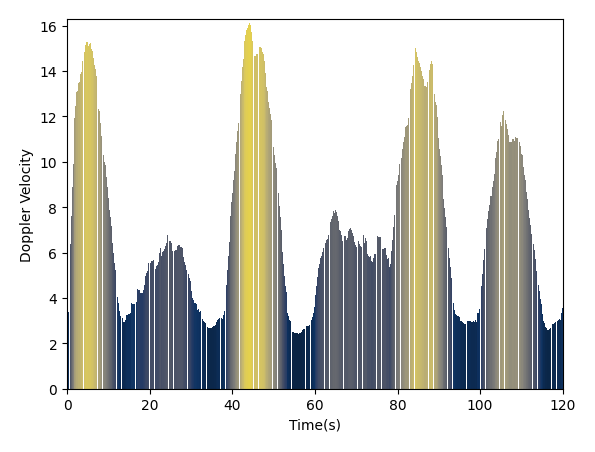
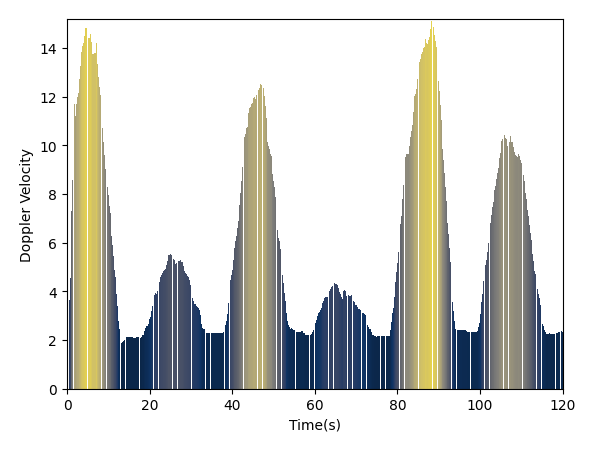
Updated0923

diff --git a/main.py b/main.py
@@ -1,94 +1,34 @@
-#Import pandas, numpy and matplotlib library
 import pandas as pd
 import numpy as np
 import matplotlib.pyplot as plt
+import seaborn as sns
 
-#Save database URL to url
-#url = "https://raw.githubusercontent.com/kotobuki09/TrackLocation/master/icontrol_data.csv"
-#url = "https://raw.githubusercontent.com/kotobuki09/kngo/main/Dopper_2302.csv"
-url = "https://raw.githubusercontent.com/kotobuki09/Fab_OpenVLC/main/Dopper_1806.csv?token=GHSAT0AAAAAACCS5Q76SJ4K5Z2ZSAH2ITCAZEO3KDQ"
+url = "https://raw.githubusercontent.com/kotobuki09/Fab_OpenVLC/main/Dopper_2302.csv?token=GHSAT0AAAAAACFWXAL5QHUFUL2J7TG24HIYZHOCO3A"
 
-
-
-# Creating a DataFrame with dataset and change all the "NM" value to missing value
 missing_values = ["NM"]
 df = pd.read_csv(url, na_values = missing_values)
-#Drop first column
-#df.drop(columns=df.columns[[0,1]], axis=1,inplace=True) #delete 2 column 0, and 1
 df.drop(columns=df.columns[0], axis=1,inplace=True)
-# Replace all the missing value using median
 df = df.apply(lambda x: x.fillna(x.mean()))
 
-
-print(df.head)
-#print(df.columns[:3])
-#print(df.Location.unique()+1)
-
-#Draw the new graph for the Doppler Velocity performance
-#y= df.iloc[:,:1].values
-#y= np.squeeze(y)
-#y=list(y)
-y=df["Doppler"]
-
-#print(x)
-#x = []
-#for i in range(0, 604):
-#    x.append(i * 0.2)
-x=np.linspace(0, 120, 601)
-values = [i/5 for i in range(0, 601)]
-
-# Create a range of time values from 0s to 120s with 0.2s increments
-#x = pd.date_range(start='00:00:00', end='00:02:00', freq='200ms')
-
-# Create a DataFrame with the time values
-#dftime = pd.DataFrame({'Time': x})
-
-# Print the first few rows of the DataFrame
-#print(df.head())
-
-
-
-
-#print(y)
-#plt.plot(x, y)
-#plt.title('Doppler velocity extracted from testbed scenario')
-#plt.xlabel('Time(s)')
-#plt.ylabel('Doppler velocity')
-#plt.show()
-
-#df2 = pd.DataFrame (x, columns = ['Time'])
-#print(df2.head)
+y = df["Doppler"]
+x = np.linspace(0, 120, 601)
 
 df['Time'] = x
-print(df.head)
-print(type(df))
 
-import seaborn as sns
-import pandas as pd
+# Use a continuous color palette for better visualization
+cmap = plt.get_cmap('coolwarm')
+norm = plt.Normalize(df['Doppler'].min(), df['Doppler'].max())
+colors = cmap(norm(df['Doppler'].values))
 
-import numpy as np
-import matplotlib
-
-
-#use red for bars with value less than 10 and green for all other bars
-
-#cols = ['red' if y < 2 else 'green' for y in df.Doppler]
-cols = ['green' if y < 3 else 'blue' if 3 <= y < 7 else 'red' for y in df.Doppler]
-x=df["Time"]
-y=df["Doppler"]
-fig=sns.barplot(x=x, y=y,palette=cols)
+fig, ax = plt.subplots()
+sns.barplot(x=df["Time"], y=df["Doppler"], palette=colors, ax=ax)
 xticks = [i for i in range(0, 121, 20)]
 plt.xticks([i*5 for i in xticks], xticks)
-#ticks = plt.xticks(x[::400], df['Time'].values[::400], rotation=90)
-#plt.xticks(range(len(df["Time"])), df["Time"])
 
-
-# Set the axis labels and title
 plt.xlabel('Time(s)')
 plt.ylabel('Doppler Velocity')
 plt.margins(x=0)
 plt.margins(y=0)
-# Show the plot
-plt.show()
 
-fig.figure.savefig("Doppler062023.png",transparent = True, bbox_inches = 'tight', pad_inches = 0.2)
+plt.show()
+fig.savefig("Doppler_velocity_colors.png", transparent=True, bbox_inches='tight', pad_inches=0.2)

diff --git a/main - OriginalCode-2908.py b/main - OriginalCode-2908.py
@@ -1,0 +1,94 @@
+#Import pandas, numpy and matplotlib library
+import pandas as pd
+import numpy as np
+import matplotlib.pyplot as plt
+
+#Save database URL to url
+#url = "https://raw.githubusercontent.com/kotobuki09/TrackLocation/master/icontrol_data.csv"
+#url = "https://raw.githubusercontent.com/kotobuki09/kngo/main/Dopper_2302.csv"
+url = "https://raw.githubusercontent.com/kotobuki09/Fab_OpenVLC/main/Dopper_2302.csv?token=GHSAT0AAAAAACFWXAL4PKZAONDAPKDMY2Y6ZHNZH4Q"
+
+
+
+# Creating a DataFrame with dataset and change all the "NM" value to missing value
+missing_values = ["NM"]
+df = pd.read_csv(url, na_values = missing_values)
+#Drop first column
+#df.drop(columns=df.columns[[0,1]], axis=1,inplace=True) #delete 2 column 0, and 1
+df.drop(columns=df.columns[0], axis=1,inplace=True)
+# Replace all the missing value using median
+df = df.apply(lambda x: x.fillna(x.mean()))
+
+
+print(df.head)
+#print(df.columns[:3])
+#print(df.Location.unique()+1)
+
+#Draw the new graph for the Doppler Velocity performance
+#y= df.iloc[:,:1].values
+#y= np.squeeze(y)
+#y=list(y)
+y=df["Doppler"]
+
+#print(x)
+#x = []
+#for i in range(0, 604):
+#    x.append(i * 0.2)
+x=np.linspace(0, 120, 601)
+values = [i/5 for i in range(0, 601)]
+
+# Create a range of time values from 0s to 120s with 0.2s increments
+#x = pd.date_range(start='00:00:00', end='00:02:00', freq='200ms')
+
+# Create a DataFrame with the time values
+#dftime = pd.DataFrame({'Time': x})
+
+# Print the first few rows of the DataFrame
+#print(df.head())
+
+
+
+
+#print(y)
+#plt.plot(x, y)
+#plt.title('Doppler velocity extracted from testbed scenario')
+#plt.xlabel('Time(s)')
+#plt.ylabel('Doppler velocity')
+#plt.show()
+
+#df2 = pd.DataFrame (x, columns = ['Time'])
+#print(df2.head)
+
+df['Time'] = x
+print(df.head)
+print(type(df))
+
+import seaborn as sns
+import pandas as pd
+
+import numpy as np
+import matplotlib
+
+
+#use red for bars with value less than 10 and green for all other bars
+
+#cols = ['red' if y < 2 else 'green' for y in df.Doppler]
+cols = ['green' if y < 3 else 'blue' if 3 <= y < 7 else 'red' for y in df.Doppler]
+x=df["Time"]
+y=df["Doppler"]
+fig=sns.barplot(x=x, y=y,palette=cols)
+xticks = [i for i in range(0, 121, 20)]
+plt.xticks([i*5 for i in xticks], xticks)
+#ticks = plt.xticks(x[::400], df['Time'].values[::400], rotation=90)
+#plt.xticks(range(len(df["Time"])), df["Time"])
+
+
+# Set the axis labels and title
+plt.xlabel('Time(s)')
+plt.ylabel('Doppler Velocity')
+plt.margins(x=0)
+plt.margins(y=0)
+# Show the plot
+plt.show()
+
+fig.figure.savefig("Doppler062023.png",transparent = True, bbox_inches = 'tight', pad_inches = 0.2)

diff --git a/plot1806.py b/plot1806.py
@@ -5,7 +5,7 @@ import matplotlib.pyplot as plt
 import seaborn as sns
 
 # Define data URL
-url = "https://raw.githubusercontent.com/kotobuki09/Fab_OpenVLC/main/Dopper_1806.csv?token=GHSAT0AAAAAACCS5Q77UBTLQPXPWDPQSOIQZEO7CUQ"
+url = "https://raw.githubusercontent.com/kotobuki09/Fab_OpenVLC/main/Dopper_2302.csv?token=GHSAT0AAAAAACFWXAL4PKZAONDAPKDMY2Y6ZHNZH4Q"
 
 # Read the data into a DataFrame, handling missing values
 missing_values = ["NM"]
